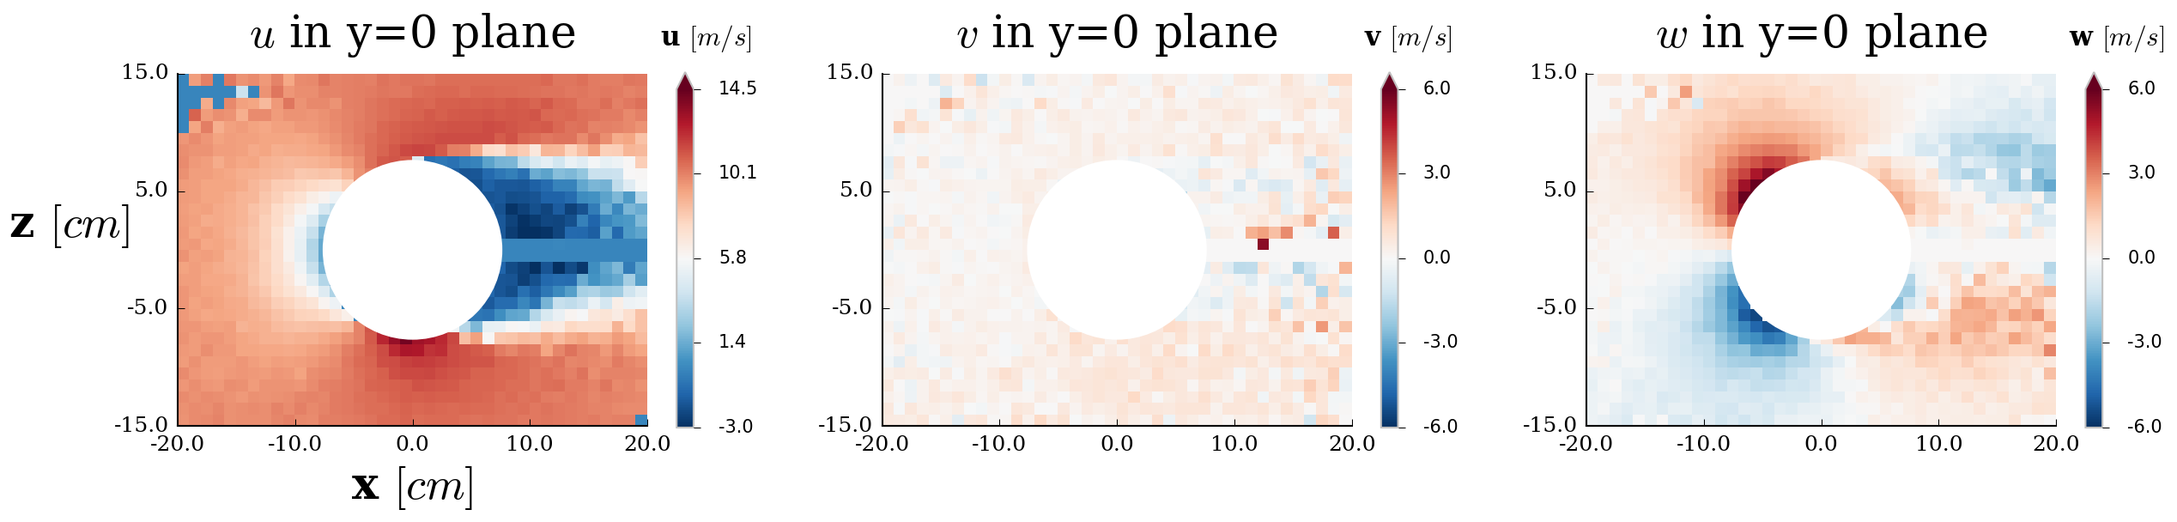
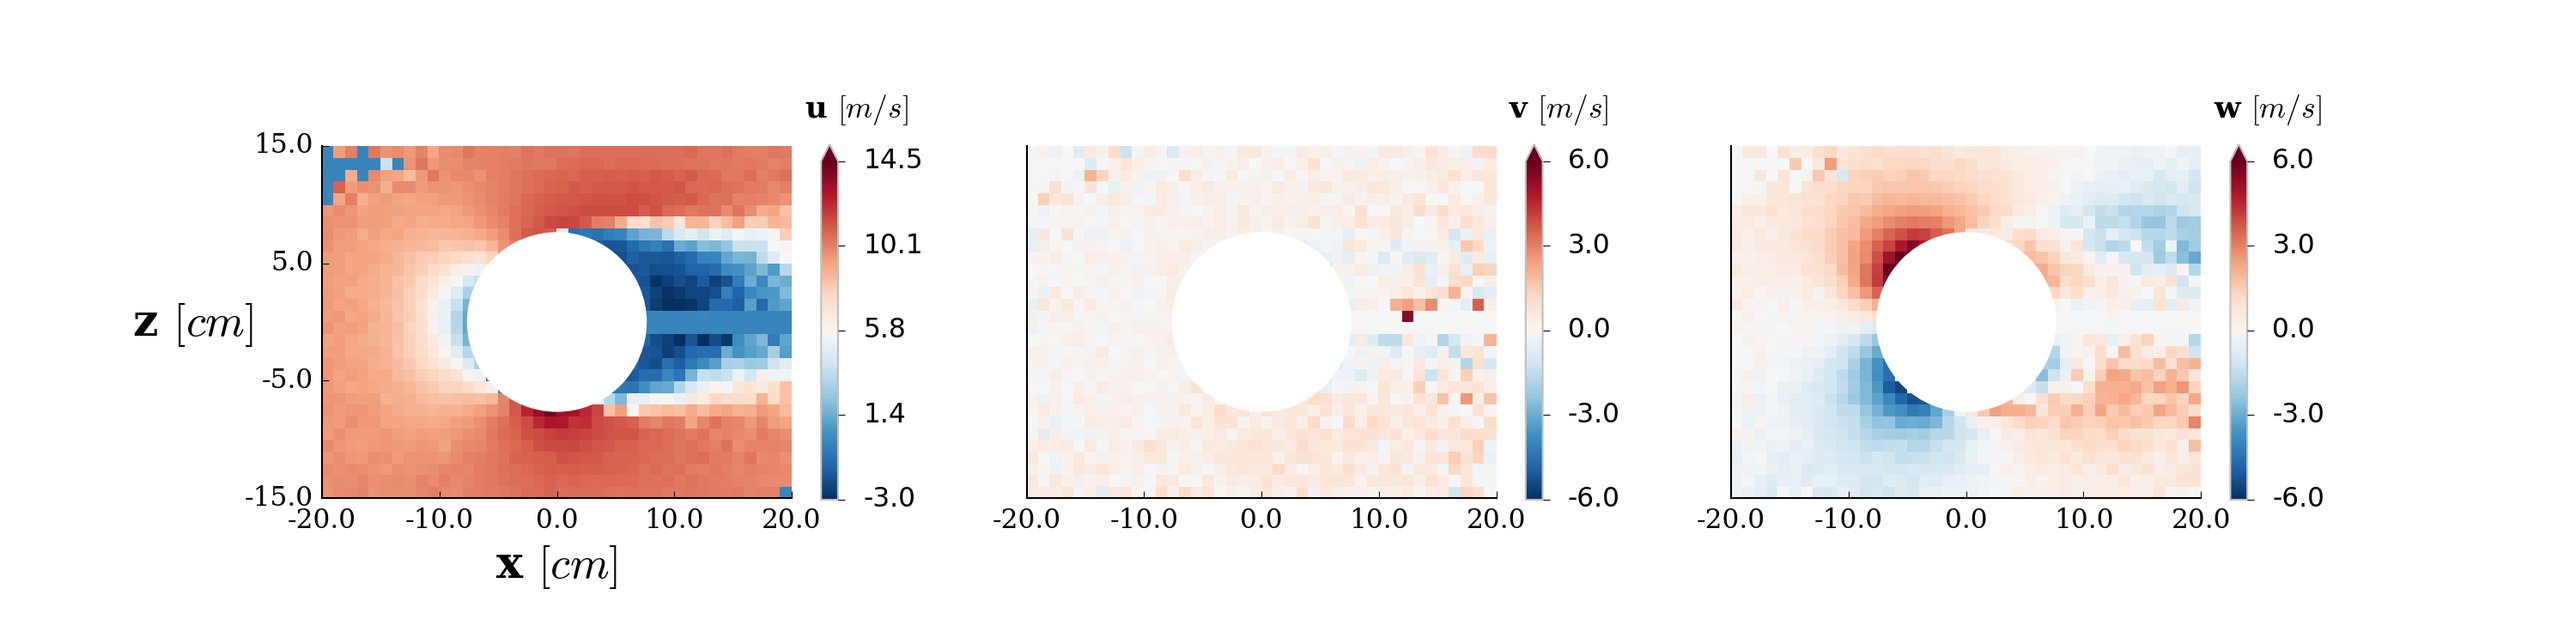
plotting revised

diff --git a/4. ensemble_plotting.py b/4. ensemble_plotting.py
@@ -313,12 +313,12 @@ Ensemble averaging plot setup
 fill = 0
 plane = 'y=0'
 versions = ['rbf', 'rbf2', 'rbf3', 'rbf4', 'rbf5', 'rbf6', 'polynomial']
-version = versions[6]
+version = versions[0]
 unified_color = True
 shrink = 0.69
 cbtit_y = -5
-surface = True
-save = False
+surface = False
+save = True
 
 if version is 'rbf':
     f = rbf
@@ -377,7 +377,7 @@ tsize=25
 axsize = 25
 pad = 15
 tit_y = 1.05
-cbtit_size = 15
+cbtit_size = 17
 fillsphere = True
 aspect = 1
 
@@ -618,7 +618,7 @@ else:
                                                               y_bounds=y_bounds,
                                                               cb_vmax=actualmax1 if not isinstance(actualmax1, type(None)) else find_real_extremes(mosaic)[0],
                                                               cb_vmin=actualmin1 if not isinstance(actualmin1, type(None)) else find_real_extremes(mosaic)[1],
-                                                              plot_title=r'$\mathit{' + comp + '}$' + ' in {} plane'.format(plane),
+                                                              plot_title=None,  # r'$\mathit{' + comp + '}$' + ' in {} plane'.format(plane),
                                                               color_bar=True,
                                                               cb_axis_labelpad=10,
                                                               title_size=tsize,
@@ -643,7 +643,10 @@ else:
                                                               y_tick_number=y_ticks,
                                                               more_subplots_left=True,
                                                               shrink=shrink,
-                                                              cb_nticks=5
+                                                              cb_nticks=5,
+                                                              cb_ticklabelsize=15,
+                                                              x_ticklabel_size=15,
+                                                              y_ticklabel_size=15,
                                                               )
 
     """
@@ -657,7 +660,7 @@ else:
                                                               xresize_pad=0, yresize_pad=0,
                                                               x_bounds=x_bounds,
                                                               y_bounds=y_bounds,
-                                                              plot_title=r'$\mathit{' + comp + '}$' + ' in {} plane'.format(plane),
+                                                              plot_title=None,  # r'$\mathit{' + comp + '}$' + ' in {} plane'.format(plane),
                                                               color_bar=True,
                                                               cb_vmax=actualmax2 if not isinstance(actualmax2, type(None)) else find_real_extremes(mosaic)[0],
                                                               cb_vmin=actualmin2 if not isinstance(actualmin2, type(None)) else find_real_extremes(mosaic)[1],
@@ -668,7 +671,7 @@ else:
                                                               title_y=tit_y,
                                                               cb_top_title_x=-1,
                                                               x_tick_number=x_ticks,
-                                                              y_tick_number=y_ticks,
+                                                              y_tick_number=0,
                                                               more_subplots_left=True,
                                                               shrink=shrink,
                                                               cb_top_title=True,
@@ -677,7 +680,10 @@ else:
                                                               cb_title_weight='bold',
                                                               cb_top_title_y=1.1,
                                                               cb_title_size=cbtit_size,
-                                                              cb_nticks=5
+                                                              cb_nticks=5,
+                                                              cb_ticklabelsize=15,
+                                                              x_ticklabel_size=15,
+                                                              y_ticklabel_size=15,
                                                               )
 
     """
@@ -691,7 +697,7 @@ else:
                                                               xresize_pad=0, yresize_pad=0,
                                                               x_bounds=x_bounds,
                                                               y_bounds=y_bounds,
-                                                              plot_title=r'$\mathit{' + comp + '}$' + ' in {} plane'.format(plane),
+                                                              plot_title=None,  # r'$\mathit{' + comp + '}$' + ' in {} plane'.format(plane),
                                                               color_bar=True,
                                                               cb_vmax=actualmax3 if not isinstance(actualmax3, type(None)) else find_real_extremes(mosaic)[0],
                                                               cb_vmin=actualmin3 if not isinstance(actualmin3, type(None)) else find_real_extremes(mosaic)[1],
@@ -700,7 +706,7 @@ else:
                                                               title_y=tit_y,
                                                               cb_top_title_x=-1,
                                                               x_tick_number=x_ticks,
-                                                              y_tick_number=y_ticks,
+                                                              y_tick_number=0,
                                                               custom_x_ticklabels=(-20, 20) if plane == 'y=0' or plane == 'z=0' else (-15, 15),
                                                               custom_y_ticklabels=(-15, 15),
                                                               more_subplots_left=True,
@@ -711,7 +717,10 @@ else:
                                                               cb_title_weight='bold',
                                                               cb_top_title_y=1.1,
                                                               cb_title_size=cbtit_size,
-                                                              cb_nticks=5
+                                                              cb_nticks=5,
+                                                              cb_ticklabelsize=15,
+                                                              x_ticklabel_size=15,
+                                                              y_ticklabel_size=15,
                                                               )
 
     """

diff --git a/mpl_plotter_mpl_plotting_methods.py b/mpl_plotter_mpl_plotting_methods.py
@@ -772,7 +772,7 @@ class MatPlotLibPublicationPlotter:
                   color_bar=False, cb_title=None, cb_axis_labelpad=10, cb_nticks=10, shrink=0.75,
                   cb_outlinewidth=None, cb_title_rotation=None, cb_title_style='normal', cb_title_size=10,
                   cb_top_title_y=1, cb_ytitle_labelpad=10, cb_title_weight='normal', cb_top_title=False,
-                  cb_y_title=False,
+                  cb_y_title=False, cb_ticklabelsize=10,
                   cb_vmin=None, cb_vmax=None,
                   plot_title='Drop - Wave function', title_bold=False, title_size=12, title_y=1,
                   x_label='x', xaxis_bold=False, xaxis_label_size=12, xaxis_labelpad=5,
@@ -847,7 +847,8 @@ class MatPlotLibPublicationPlotter:
                            cb_top_title=cb_top_title, cb_top_title_y=cb_top_title_y,
                            cb_vmin=cb_vmin, cb_vmax=cb_vmax,
                            tick_ndecimals=tick_ndecimals,
-                           cb_top_title_x=cb_top_title_x)
+                           cb_top_title_x=cb_top_title_x,
+                           cb_ticklabelsize=cb_ticklabelsize)
         # Resize axes
         if resize_axes is True:
             z_pad = z_pad if z_pad > (abs(z.max()) + abs(z.min())) / 16 else (abs(z.max()) + abs(z.min())) / 16
